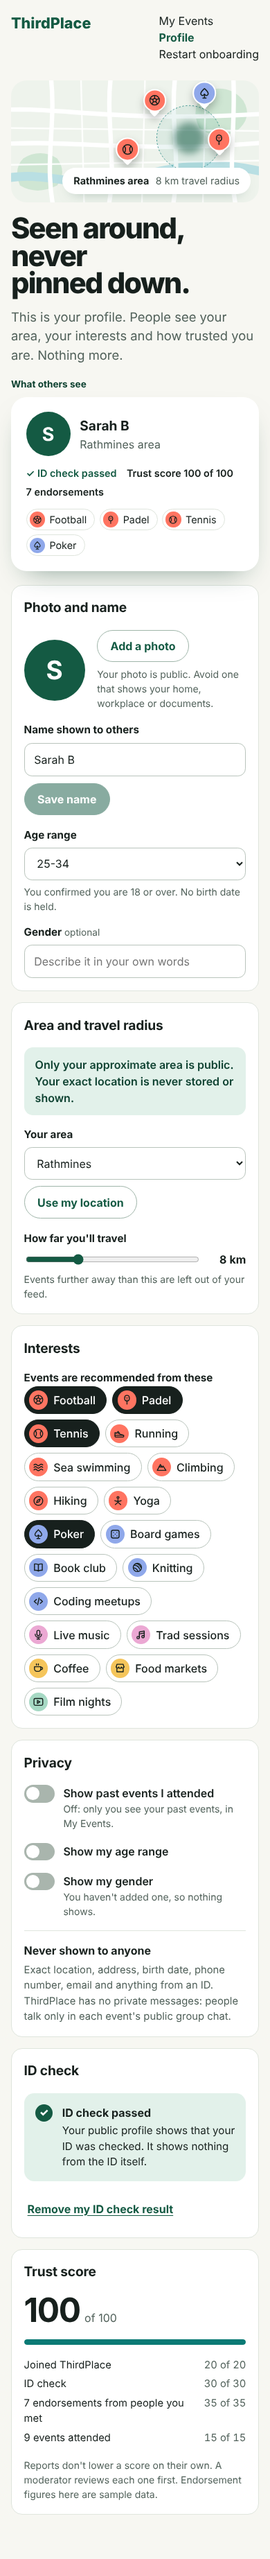
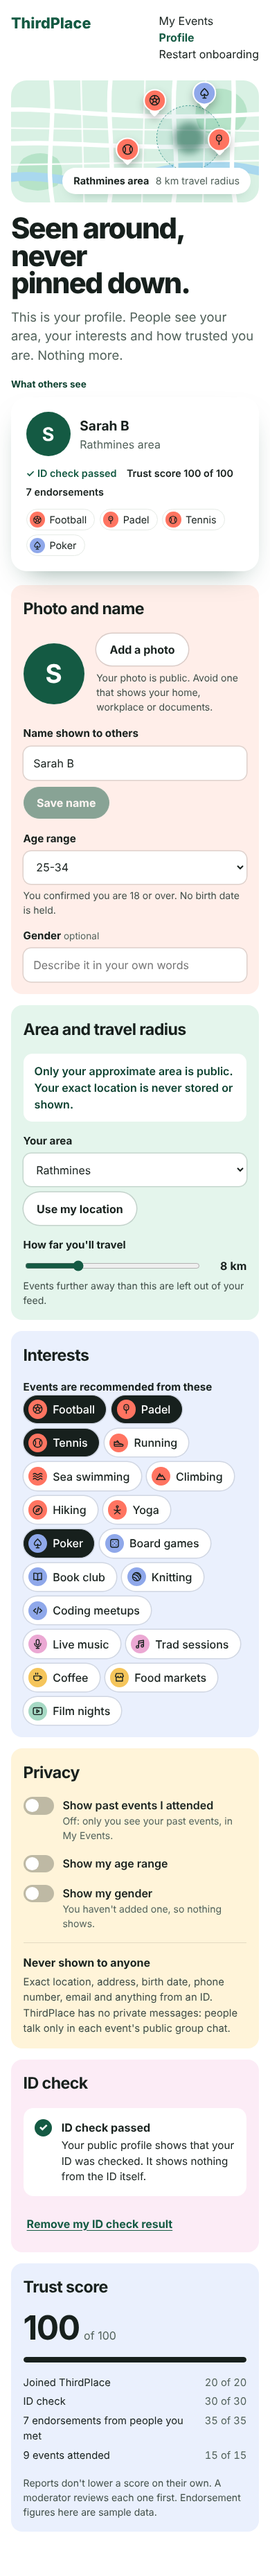
style: white page with soft tinted sections and a brighter map
Replaces the grey page background on these screens with white, gives each
Profile section its own soft colour block, brightens the map to mint and
blue, and tints My Events date tiles by category.

Claude-Session: https://claude.ai/code/session_01TSpLLcjMmNwyMasHSNnUNU

diff --git a/apps/web/src/features/profile/profile.css b/apps/web/src/features/profile/profile.css
@@ -265,6 +265,56 @@
 .tp-pin .tp-ico { width: 2.9rem; height: 2.9rem; border: 3px solid #fff; position: relative; z-index: 1; }
 .tp-pin::after { content: ""; position: absolute; left: 50%; bottom: -0.42rem; width: 0.95rem; height: 0.95rem; background: #fff; transform: translateX(-50%) rotate(45deg); border-radius: 0.15rem; }
 
+/* White page, colour carried by soft tinted blocks */
+:root:has(.tp) { background: #ffffff; }
+.tp {
+  --tp-line: #e6ebe6;
+  --tint-mint: #e4f5ec;
+  --tint-peach: #ffeee9;
+  --tint-blue: #eaf0fd;
+  --tint-amber: #fff4d9;
+  --tint-pink: #fcecf6;
+}
+.tp-panel { border: 0; padding: 1.75rem; }
+.tp-panel[data-tint="mint"] { background: var(--tint-mint); }
+.tp-panel[data-tint="peach"] { background: var(--tint-peach); }
+.tp-panel[data-tint="blue"] { background: var(--tint-blue); }
+.tp-panel[data-tint="amber"] { background: var(--tint-amber); }
+.tp-panel[data-tint="pink"] { background: var(--tint-pink); }
+.tp-panel h2 { font-size: 1.45rem; letter-spacing: -0.025em; }
+.tp-panel .tp-hint, .tp-panel .tp-muted, .tp-never p { color: #3f4d47; }
+.tp input:not([type="checkbox"]):not([type="radio"]):not([type="range"]):not([type="file"]), .tp select, .tp textarea { border-color: transparent; box-shadow: 0 0 0 1.5px rgba(23, 32, 29, 0.14); }
+.tp-chip > span { border-color: transparent; box-shadow: 0 0 0 1.5px rgba(23, 32, 29, 0.12); }
+.tp .tp-button-quiet { background: #fff; border-color: transparent; box-shadow: 0 0 0 1.5px rgba(23, 32, 29, 0.16); color: var(--tp-ink); }
+.tp .tp-button-quiet:hover { background: #fff; border-color: transparent; box-shadow: 0 0 0 1.5px var(--tp-ink); }
+.tp-callout { background: #fff; color: var(--tp-green-deep); }
+.tp-never { border-top-color: rgba(23, 32, 29, 0.12); }
+.tp-toggle-track { background: rgba(23, 32, 29, 0.28); }
+.tp-meter { background: #fff; }
+.tp-meter span { background: var(--tp-ink); }
+.tp-status, .tp-consent { background: #fff; border-color: transparent; }
+.tp-verify[data-status="verified"] .tp-status { background: #fff; }
+.tp-prototype { border-color: rgba(23, 32, 29, 0.25); }
+.tp-steps li { border-top-color: rgba(23, 32, 29, 0.14); }
+
+.tp-map-land { fill: #d9f1e4; }
+.tp-map-park { fill: #b6e3c8; }
+.tp-map-water { stroke: #a9d8ee; }
+.tp-map::after { background: linear-gradient(90deg, #d9f1e4 0%, rgba(217, 241, 228, 0.95) 34%, rgba(217, 241, 228, 0) 62%); }
+.tp-area-drawing svg { background: #d9f1e4; }
+
+.tp-event { border: 0; background: #fff; box-shadow: 0 0 0 1.5px var(--tp-line), 0 14px 30px -24px rgba(23, 32, 29, 0.45); }
+.tp-event-past { background: #fff; box-shadow: 0 0 0 1.5px var(--tp-line); }
+.tp-date { background: var(--tint-mint); color: var(--tp-ink); }
+.tp-date[data-category="sport"] { background: var(--tint-peach); }
+.tp-date[data-category="social"] { background: var(--tint-blue); }
+.tp-date[data-category="music"] { background: var(--tint-pink); }
+.tp-date[data-category="food"] { background: var(--tint-amber); }
+.tp-event-past .tp-date { background: #f1f4f1; color: var(--tp-muted); }
+.tp-empty { border-color: rgba(23, 32, 29, 0.2); }
+.tp-person { border: 0; box-shadow: 0 0 0 1.5px var(--tp-line); }
+.tp-decision { background: #f1f4f1; }
+
 @media (max-width: 860px) {
   .tp-profile-grid { grid-template-columns: minmax(0, 1fr); }
   .tp-sticky { position: static; }

diff --git a/apps/web/src/features/profile/ProfileView.tsx b/apps/web/src/features/profile/ProfileView.tsx
@@ -56,7 +56,7 @@ export function ProfileView() {
 
       <div className="tp-profile-grid">
         <div className="tp-stack">
-          <section className="tp-panel" aria-labelledby="tp-you">
+          <section className="tp-panel" data-tint="peach" aria-labelledby="tp-you">
             <h2 id="tp-you">Photo and name</h2>
             <PhotoEditor name={profile.displayName} photo={profile.photoDataUrl} onChange={(photoDataUrl) => update({ photoDataUrl })} />
             <div className="tp-field">
@@ -85,7 +85,7 @@ export function ProfileView() {
             </div>
           </section>
 
-          <section className="tp-panel" aria-labelledby="tp-where">
+          <section className="tp-panel" data-tint="mint" aria-labelledby="tp-where">
             <h2 id="tp-where">Area and travel radius</h2>
             <p className="tp-callout">Only your approximate area is public. Your exact location is never stored or shown.</p>
             <AreaRadiusPicker areaId={profile.areaId} radiusKm={profile.radiusKm}
@@ -93,13 +93,13 @@ export function ProfileView() {
               onAreaChange={(areaId) => { if (areaId) update({ areaId }); }} onRadiusChange={(radiusKm) => update({ radiusKm })} />
           </section>
 
-          <section className="tp-panel" aria-labelledby="tp-likes">
+          <section className="tp-panel" data-tint="blue" aria-labelledby="tp-likes">
             <h2 id="tp-likes">Interests</h2>
             <InterestPicker selected={profile.interests} onChange={(interests) => update({ interests })} legend="Events are recommended from these"
               error={profile.interests.length === 0 ? "With no interests picked, your feed has nothing to recommend." : undefined} />
           </section>
 
-          <section className="tp-panel" aria-labelledby="tp-privacy">
+          <section className="tp-panel" data-tint="amber" aria-labelledby="tp-privacy">
             <h2 id="tp-privacy">Privacy</h2>
             <Toggle label="Show past events I attended" hint="Off: only you see your past events, in My Events."
               checked={profile.privacy.showAttendanceHistory} onChange={(value) => setPrivacy({ showAttendanceHistory: value })} />
@@ -112,14 +112,14 @@ export function ProfileView() {
             </div>
           </section>
 
-          <section className="tp-panel" aria-labelledby="tp-verification">
+          <section className="tp-panel" data-tint="pink" aria-labelledby="tp-verification">
             <h2 id="tp-verification">ID check</h2>
             <VerificationFlow />
           </section>
         </div>
 
         <aside className="tp-stack tp-sticky" aria-label="Trust">
-          <section className="tp-panel" aria-labelledby="tp-trust">
+          <section className="tp-panel" data-tint="blue" aria-labelledby="tp-trust">
             <h2 id="tp-trust">Trust score</h2>
             <div className="tp-score">
               <strong>{trust.score}</strong><span>of 100</span>

diff --git a/apps/web/src/features/auth/Onboarding.tsx b/apps/web/src/features/auth/Onboarding.tsx
@@ -56,7 +56,7 @@ export function Onboarding({ onComplete }: { onComplete?: () => void }) {
   if (blocked) {
     return (
       <section className="tp tp-onboarding" aria-labelledby="tp-blocked-heading">
-        <div className="tp-panel tp-panel-narrow">
+        <div className="tp-panel tp-panel-narrow" data-tint="mint">
           <h1 id="tp-blocked-heading" className="tp-title">ThirdPlace is for adults</h1>
           <p>ThirdPlace is only for people aged 18 or over, so you can't create an account yet. Nothing you entered has been saved.</p>
           <button type="button" className="tp-button tp-button-quiet" onClick={() => { setBlocked(false); setAge(""); }}>
@@ -69,7 +69,7 @@ export function Onboarding({ onComplete }: { onComplete?: () => void }) {
 
   return (
     <section className="tp tp-onboarding" aria-labelledby="tp-onboarding-heading">
-      <form className="tp-panel tp-panel-narrow" onSubmit={submit} noValidate>
+      <form className="tp-panel tp-panel-narrow" data-tint="mint" onSubmit={submit} noValidate>
         <ol className="tp-steps" aria-label="Setup progress">
           {STEPS.map((label, index) => (
             <li key={label} aria-current={index === step ? "step" : undefined} data-done={index < step || undefined}>{label}</li>

diff --git a/apps/web/src/features/profile/MyEventsView.tsx b/apps/web/src/features/profile/MyEventsView.tsx
@@ -1,5 +1,6 @@
 import { useMemo } from "react";
 import { InterestBadge } from "../preferences/InterestIcon";
+import { interestCategory } from "../preferences/interests";
 import { useProfile } from "./ProfileStore";
 import { sampleMyEvents } from "./sampleData";
 import type { MyEvent } from "./types";
@@ -122,7 +123,7 @@ function EventSummary({ event }: { event: MyEvent }) {
   const date = new Date(event.startsAt);
   return (
     <div className="tp-event-summary">
-      <time className="tp-date" dateTime={event.startsAt}>
+      <time className="tp-date" data-category={event.interestId ? interestCategory(event.interestId) : "other"} dateTime={event.startsAt}>
         <span>{date.toLocaleDateString("en-IE", { month: "short" })}</span>
         <strong>{date.getDate()}</strong>
       </time>
